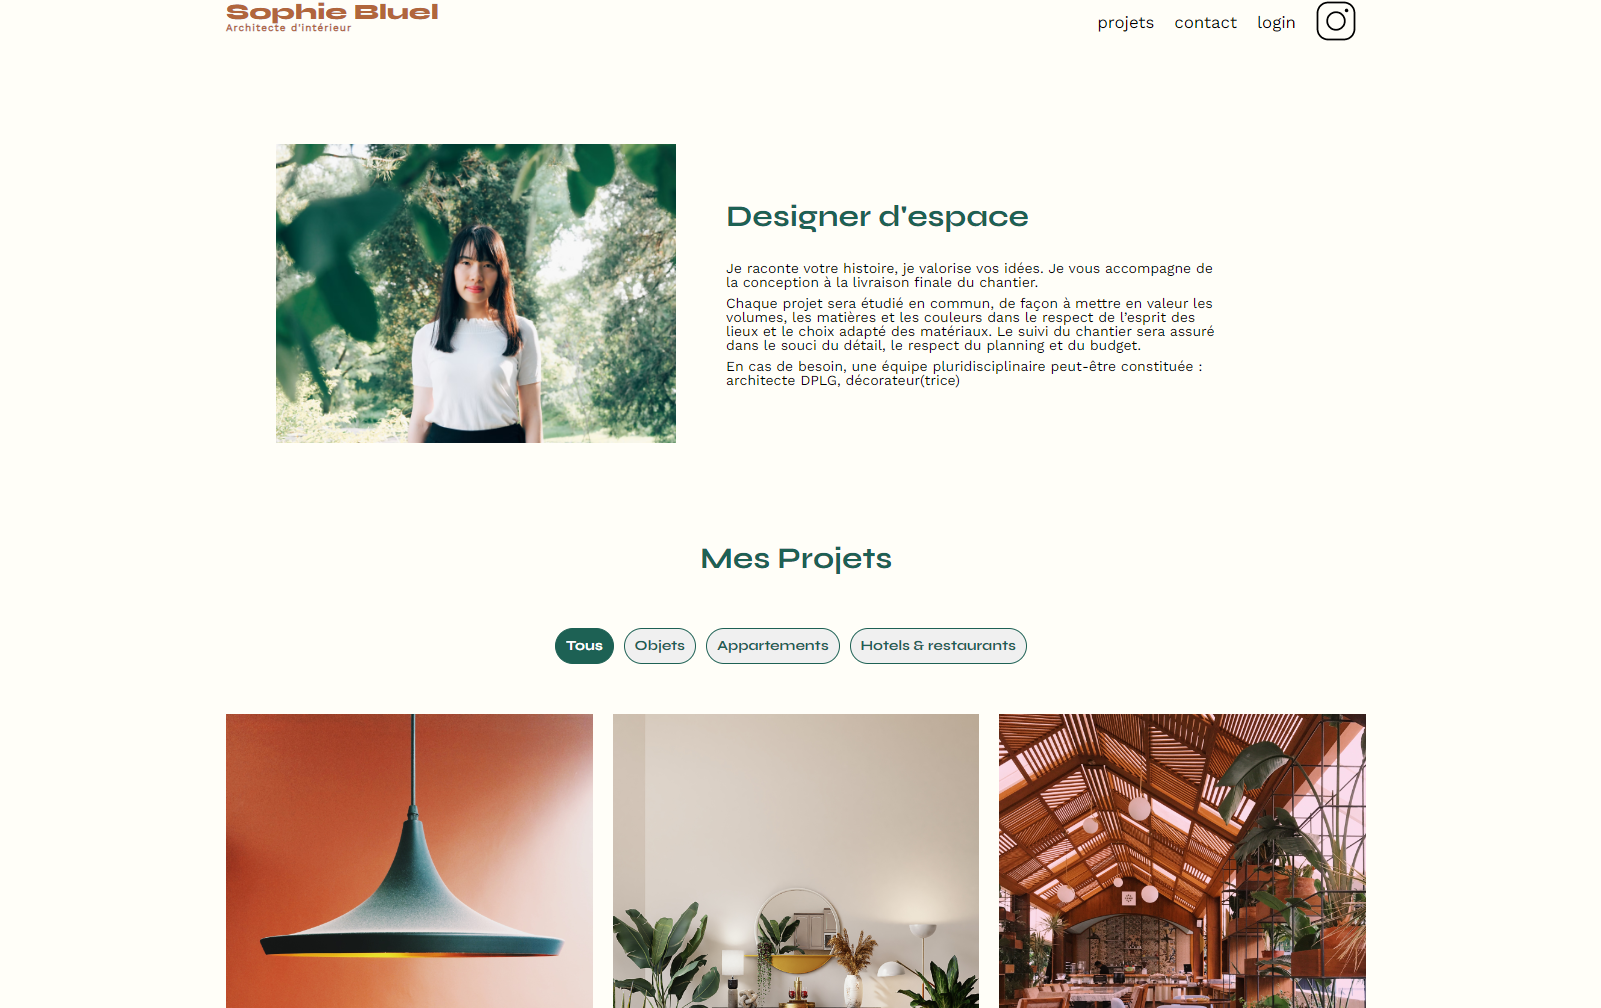
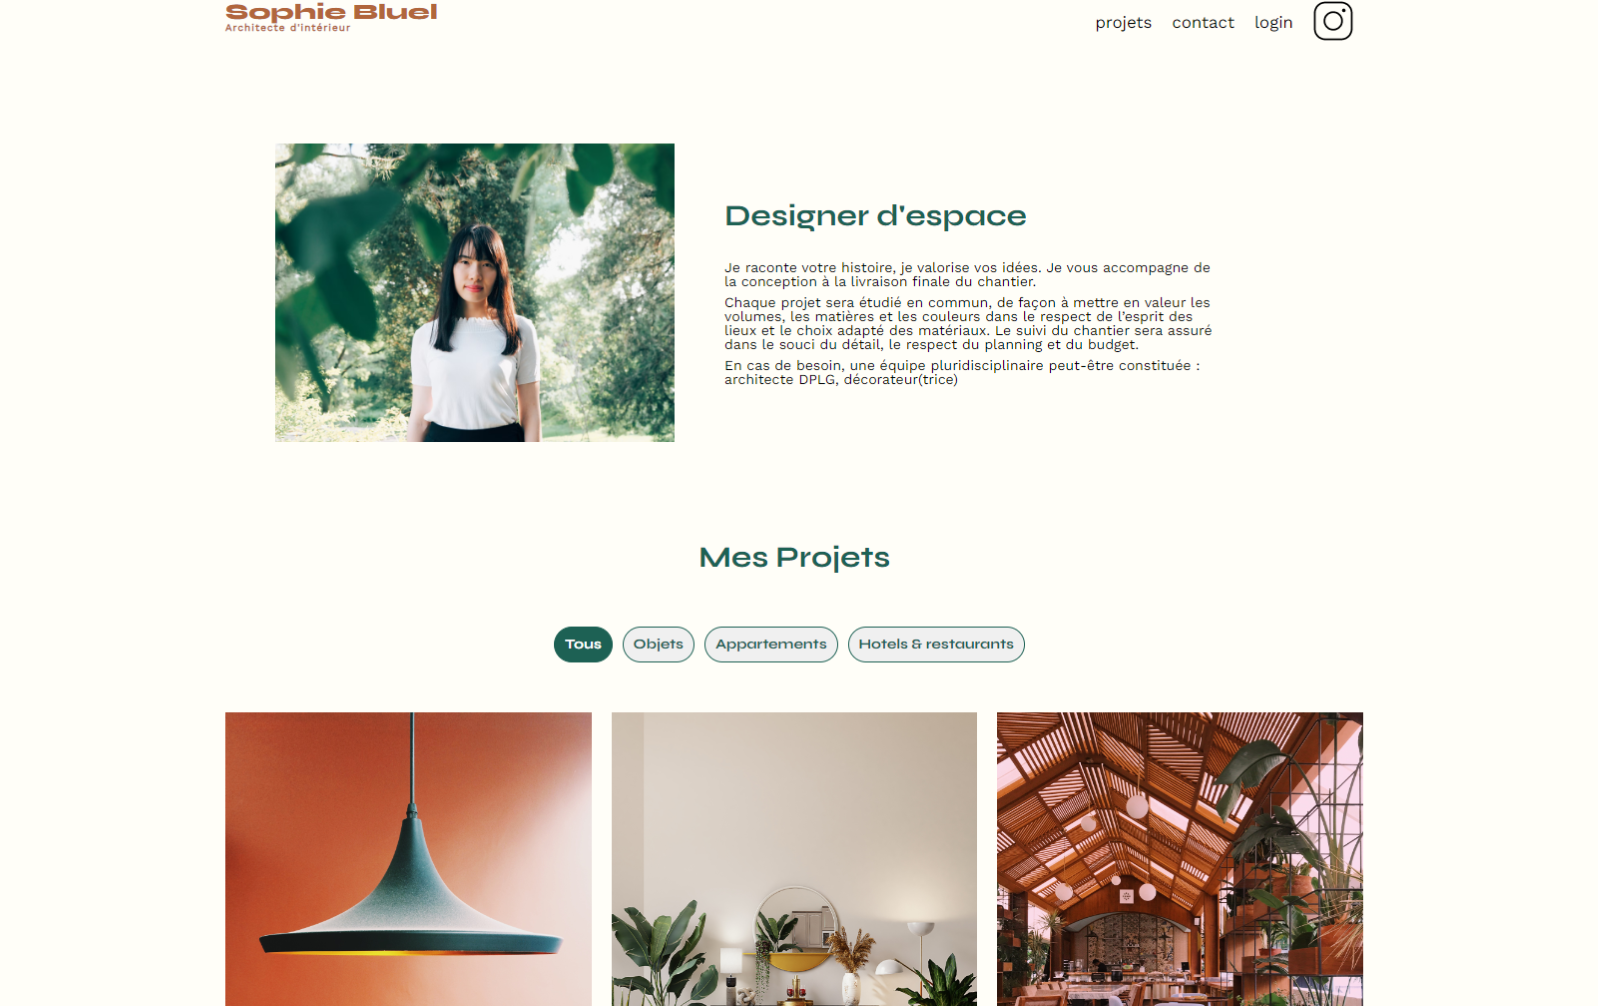
Positionnement des projets

diff --git a/src/components/Description/Description.js b/src/components/Description/Description.js
@@ -3,25 +3,24 @@ import fond from "../images/Banderole-damier.webp";
 import image from "../images/flammes.jpg";
 
 export default function Description() {
-  
   const fontStylesTitle = {
     fontFamily: "Cabin, sans-serif",
-    fontSize: "4rem",             // Taille de police 4rem (équivalent à 4 * taille de la police de base)
-    fontWeight: "bold",           // Police en gras
-    letterSpacing: "-0.05em",      // Suivi du texte serré
+    fontSize: "4rem", // Taille de police 4rem (équivalent à 4 * taille de la police de base)
+    fontWeight: "bold", // Police en gras
+    letterSpacing: "-0.05em", // Suivi du texte serré
     backgroundColor: "#00FF00" /* Fluorescent green color */,
     padding: "0.50rem" /* Add some padding to the highlight */,
     borderRadius: "0.50rem" /* Round corners */,
   };
   const fontStyles = {
-      fontFamily: "Cabin, sans-serif",
-      fontSize: "1rem",             // Taille de police 4rem (équivalent à 4 * taille de la police de base)
-      fontWeight: "bold",           // Police en gras
-      letterSpacing: "-0.03em",      // Suivi du texte serré
-      backgroundColor: "#00FF00" /* Fluorescent green color */,
+    fontFamily: "Cabin, sans-serif",
+    fontSize: "1rem", // Taille de police 4rem (équivalent à 4 * taille de la police de base)
+    fontWeight: "bold", // Police en gras
+    letterSpacing: "-0.03em", // Suivi du texte serré
+    backgroundColor: "#00FF00" /* Fluorescent green color */,
     padding: "0.50rem" /* Add some padding to the highlight */,
     borderRadius: "0.50rem" /* Round corners */,
-    };
+  };
 
   return (
     <div className="relative isolate overflow-hidden bg-gray-900 py-24 sm:py-32">
@@ -50,16 +49,23 @@ export default function Description() {
           </h2>
           <p className="mt-10 text-lg leading-8 text-black" style={fontStyles}>
             <span>
-              <p>Après avoir exploré le monde de la mode à travers mes études, j'ai
-              rapidement réalisé que ma véritable passion résidait ailleurs.</p>
+              <p>
+                Après avoir exploré le monde de la mode à travers mes études,
+                j'ai rapidement réalisé que ma véritable passion résidait
+                ailleurs.
+              </p>
               J'ai choisi de me reconvertir dans le développement web, une
               décision guidée par mon désir profond de créer, d'innover et de
-              contribuer à l'univers numérique en constante évolution.<p>  Chaque
-              ligne de code que je rédige est une toile sur laquelle je peins
-              des solutions concrètes, faisant ainsi de ma passion mon métier.
-              Cette reconversion m'a permis de fusionner ma créativité avec ma
-              fascination pour la technologie.</p> Cependant je
-              suis toujours aussi passionnée par la haute couture et la mode.
+              contribuer à l'univers numérique en constante évolution.
+              <p>
+                {" "}
+                Chaque ligne de code que je rédige est une toile sur laquelle je
+                peins des solutions concrètes, faisant ainsi de ma passion mon
+                métier. Cette reconversion m'a permis de fusionner ma créativité
+                avec ma fascination pour la technologie.
+              </p>{" "}
+              Cependant je suis toujours aussi passionnée par la haute couture
+              et la mode.
             </span>
           </p>
         </div>

diff --git a/src/components/Projects/Projects.js b/src/components/Projects/Projects.js
@@ -2,7 +2,7 @@ import React from "react";
 import Project1 from "../images/Project1.png";
 import Project2 from "../images/Project2.png";
 import Project3 from "../images/Project3.png";
-
+import Bandeau from "../images/Bandeau.png"
 
 export default function Projects() {
   const fontStylesTitle = {
@@ -19,41 +19,62 @@ export default function Projects() {
     letterSpacing: "-0.05em", 
     color: "#00FF00", 
   };
+  const fontStylesDescr = {
+    fontFamily: "Cabin, sans-serif",
+    fontSize: "1rem", 
+    fontWeight: "normal", 
+    letterSpacing: "-0.05em", 
+    color: "black", 
+  };
+
   return (
-    <div className="flex flex-col items-center">
+    <div className="flex flex-col">
       <div className="text-center" style={fontStylesTitle}>
         Mes projets
       </div>
-      <div className="flex flex-col md:flex-row items-center">
-        <div className="md:w-1/3 lg:w-1/4">
+      <div className="flex flex-col md:flex-row mt-20 mb-10">
+        <div className="md:w-1/3 lg:w-2/4 ml-20">
           <img src={Project1} alt="Project 1" className="w-full rounded-md" />
         </div>
-        <p className="md:w-2/3 lg:w-3/4 text-center md:text-left" style={fontStyles}>
-          Projet Kasa
-        </p>
+        <div className="md:w-2/3 lg:w-1/4 ml-4 md:ml-8 mt-4 md:mt-0">
+          <p className="text-center md:text-left" style={fontStyles}>
+            Projet Kasa
+          </p>
+          <span className="text-center md:text-left block" style={fontStylesDescr}>
+            Description du projet Kasa.
+          </span>
+        </div>
       </div>
-      <div className="flex flex-col md:flex-row items-center">
-        <div className="md:w-1/3 lg:w-1/4">
+      <img src={Bandeau} alt="Project 2" className="h-15 " />
+      <div className="flex flex-col md:flex-row mt-10 mb-10">
+        <div className="md:w-1/3 lg:w-3/4 ml-20">
           <img src={Project2} alt="Project 2" className="w-full rounded-md" />
         </div>
-        <p className="md:w-2/3 lg:w-3/4 text-center md:text-left" style={fontStyles}>
-          Projet Sophie Bluel
-        </p>
+        <div className="md:w-2/3 lg:w-3/4 ml-4 md:ml-8 mt-4 md:mt-0">
+          <p className="text-center md:text-left" style={fontStyles}>
+            Projet Sophie Bluel
+          </p>
+          <span className="text-center md:text-left block" style={fontStylesDescr}>
+            Description du projet Sophie Bluel.
+          </span>
+        </div>
       </div>
-      <div className="flex flex-col md:flex-row items-center">
-        <div className="md:w-1/3 lg:w-1/4">
+      <img src={Bandeau} alt="Project 2" className="h-15 " />
+      <div className="flex flex-col md:flex-row  mt-10 mb-10">
+        <div className="md:w-1/3 lg:w-3/4 ml-20">
           <img src={Project3} alt="Project 3" className="w-full rounded-md" />
         </div>
-        <p className="md:w-2/3 lg:w-3/4 text-center md:text-left" style={fontStyles}>
-          Projet Mon vieux grimoire
-        </p>
+        <div className="md:w-2/3 lg:w-3/4 ml-4 md:ml-8 mt-4 md:mt-0">
+          <p className="text-center md:text-left" style={fontStyles}>
+            Projet Mon vieux grimoire
+          </p>
+          <span className="text-center md:text-left block" style={fontStylesDescr}>
+            Description du projet Mon vieux grimoire.
+          </span>
+        </div>
       </div>
+      <img src={Bandeau} alt="Project 2" className="h-15 " />
     </div>
   );
-}
-
-
-
-
-
-
+  
+  }  
